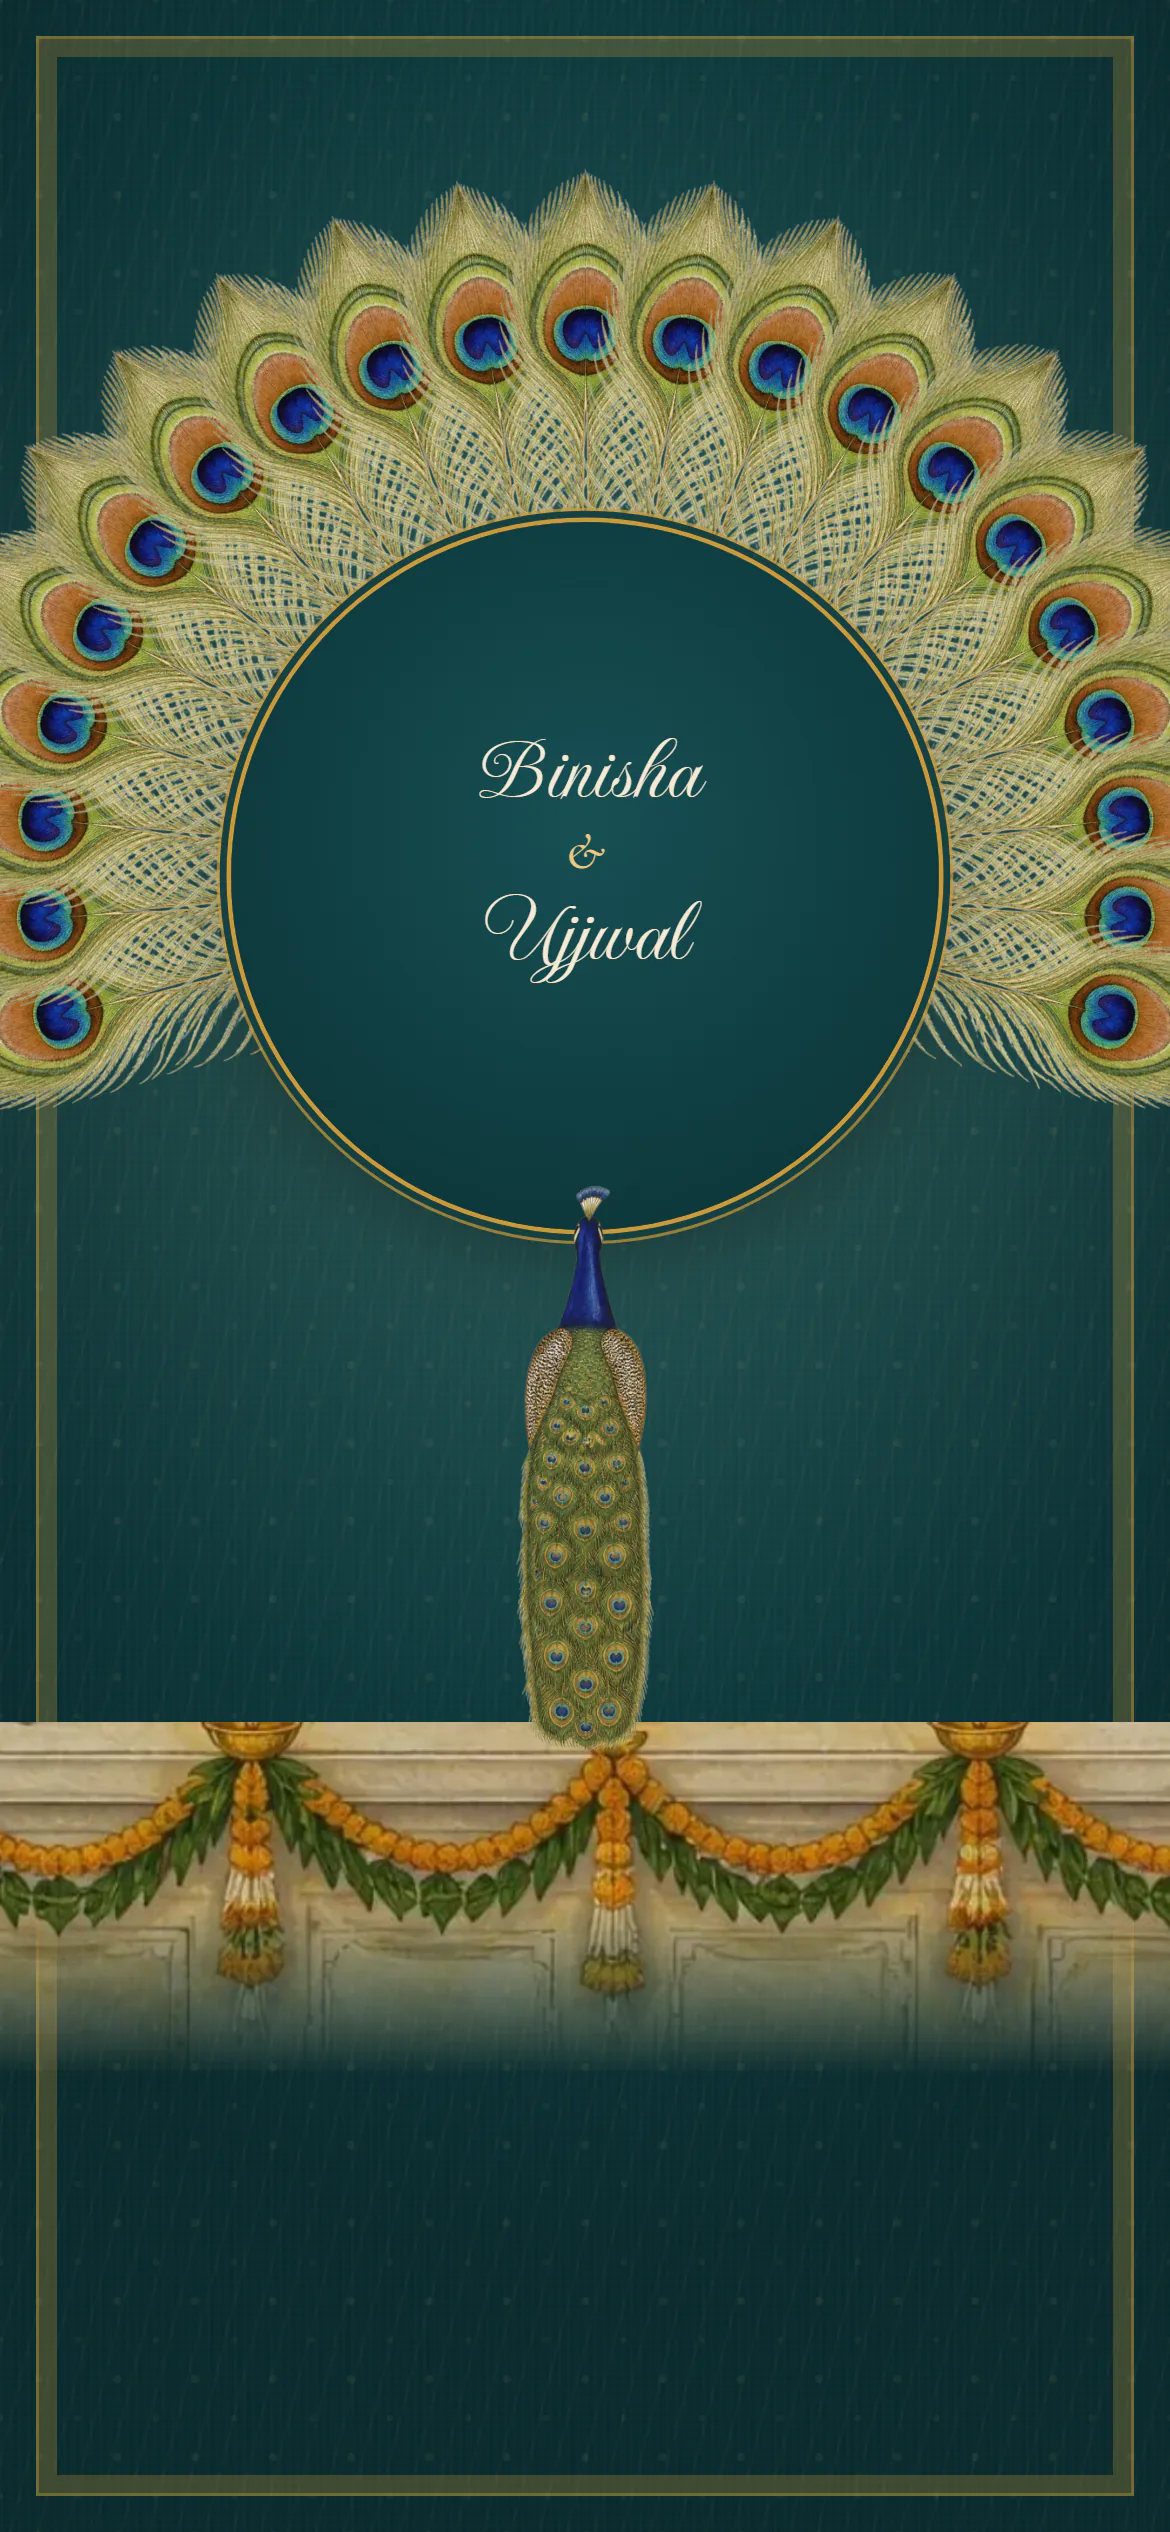
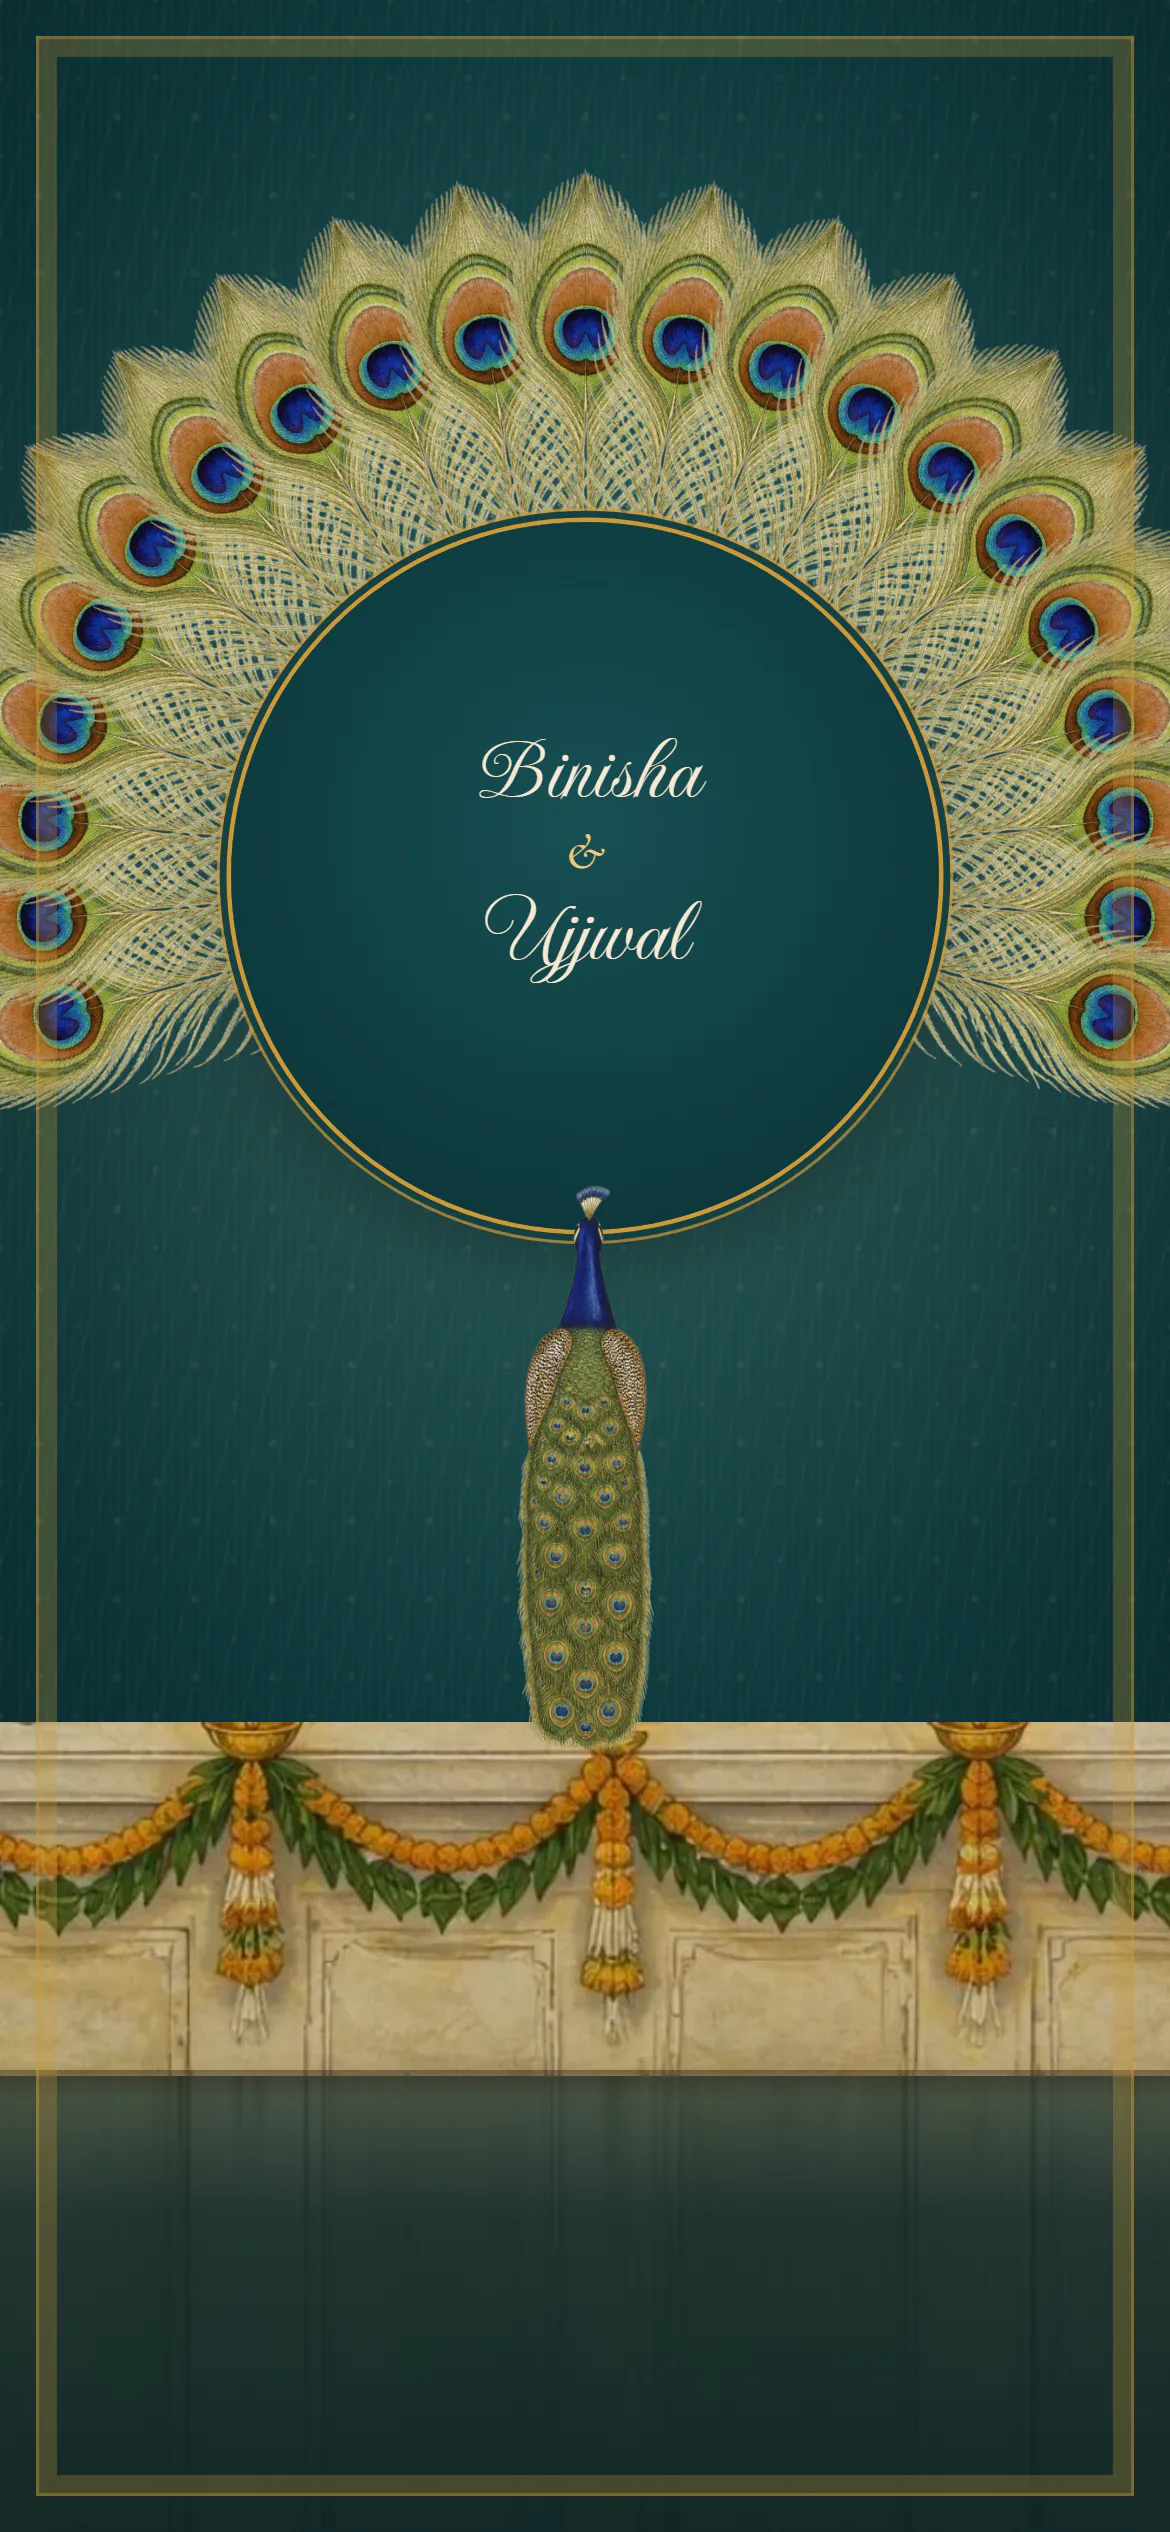
fix(kalapi): the gate's parapet runs to the foot of the screen, its marble face in evening shadow under the buttons

Changed region(s): [[0.0, 0.6864, 1.0, 0.8736], [0.0308, 0.2184, 0.0615, 0.4368], [0.9538, 0.2496, 0.9846, 0.4368]]

diff --git a/src/themes/kalapi/kalapi.css b/src/themes/kalapi/kalapi.css
@@ -84,7 +84,7 @@ body.theme-kalapi {
 .kp-g__bg { position: absolute; inset: 0;
   background: repeating-linear-gradient(104deg, rgba(232, 201, 135, 0.028) 0 1px, transparent 1px 9px), var(--kp-cloth),
     radial-gradient(70% 55% at 50% var(--ry), #175257 0%, var(--kp-teal) 52%, var(--kp-deep) 100%); }
-.kp-g__frame { position: absolute; inset: 12px; pointer-events: none; border: 1px solid rgba(198, 154, 62, 0.55); box-shadow: inset 0 0 0 5px transparent, inset 0 0 0 6px rgba(198, 154, 62, 0.28); }
+.kp-g__frame { position: absolute; inset: 12px; z-index: 1; pointer-events: none; border: 1px solid rgba(198, 154, 62, 0.55); box-shadow: inset 0 0 0 5px transparent, inset 0 0 0 6px rgba(198, 154, 62, 0.28); }
 .kp-g__glow { position: absolute; left: 50%; top: var(--ry); width: calc(var(--L) * 2.4); aspect-ratio: 1; translate: -50% -50%; border-radius: 50%;
   background: radial-gradient(closest-side, rgba(232, 201, 135, 0.18), rgba(232, 201, 135, 0.06) 55%, rgba(232, 201, 135, 0)); opacity: 0.55; transform: scale(0.7); pointer-events: none; }
 .kp-root--gate { top: var(--ry); }
@@ -93,9 +93,13 @@ body.theme-kalapi {
 .kp-bird__in { position: absolute; width: calc(var(--L) * 0.8 * 0.2442); height: calc(var(--L) * 0.8); left: calc(var(--L) * -0.0977); top: calc(var(--L) * -0.8); transform-origin: 50% 100%; }
 .kp-bird__in img { position: absolute; inset: 0; display: block; width: 100%; height: 100%; max-width: none; }
 /* the bird stands on the painted terrace parapet (garlands and diyas), which fades into the cloth above the buttons */
-.kp-g__ground { position: absolute; left: 0; right: 0; top: calc(var(--fy) - 10px); height: 118px; pointer-events: none;
-  -webkit-mask: linear-gradient(#000 0 52%, transparent 100%); mask: linear-gradient(#000 0 52%, transparent 100%); }
-.kp-g__ground img { display: block; width: 100%; height: 100%; object-fit: cover; object-position: 50% 0; }
+.kp-g__ground { position: absolute; left: 0; right: 0; top: calc(var(--fy) - 10px); bottom: 0; pointer-events: none;
+  /* the parapet's marble face runs on to the foot of the screen and falls into evening shadow, so the buttons read on it
+     and nothing below the garlands is empty cloth */
+  background: linear-gradient(180deg, rgba(12, 40, 42, 0.62) 0, rgba(10, 36, 38, 0.86) 48px, rgba(8, 32, 34, 0.93) 100%) 0 116px / 100% calc(100% - 116px) no-repeat,
+    url('/themes/kalapi/art/plinth.webp') 50% 116px / max(100%, 1156px) calc(100% - 116px) no-repeat; }
+.kp-g__ground img { display: block; width: 100%; height: 118px; object-fit: cover; object-position: 50% 0; }
+.kp-g__ground::after { content: ''; position: absolute; left: 0; right: 0; top: 116px; height: 10px; background: linear-gradient(rgba(30, 22, 10, 0.4), transparent); }
 .kp-g__tap { position: absolute; left: 50%; top: calc(var(--ry) + var(--L) * 0.1); translate: -50% 0; margin: 0; display: flex; align-items: center; gap: 12px; white-space: nowrap;
   font: 600 11px/1 var(--su-f-body); letter-spacing: 0.3em; text-transform: uppercase; color: var(--kp-gold-hi); opacity: 0.8; pointer-events: none; }
 .kp-g__tap .l-ne { font-size: 14px; }
